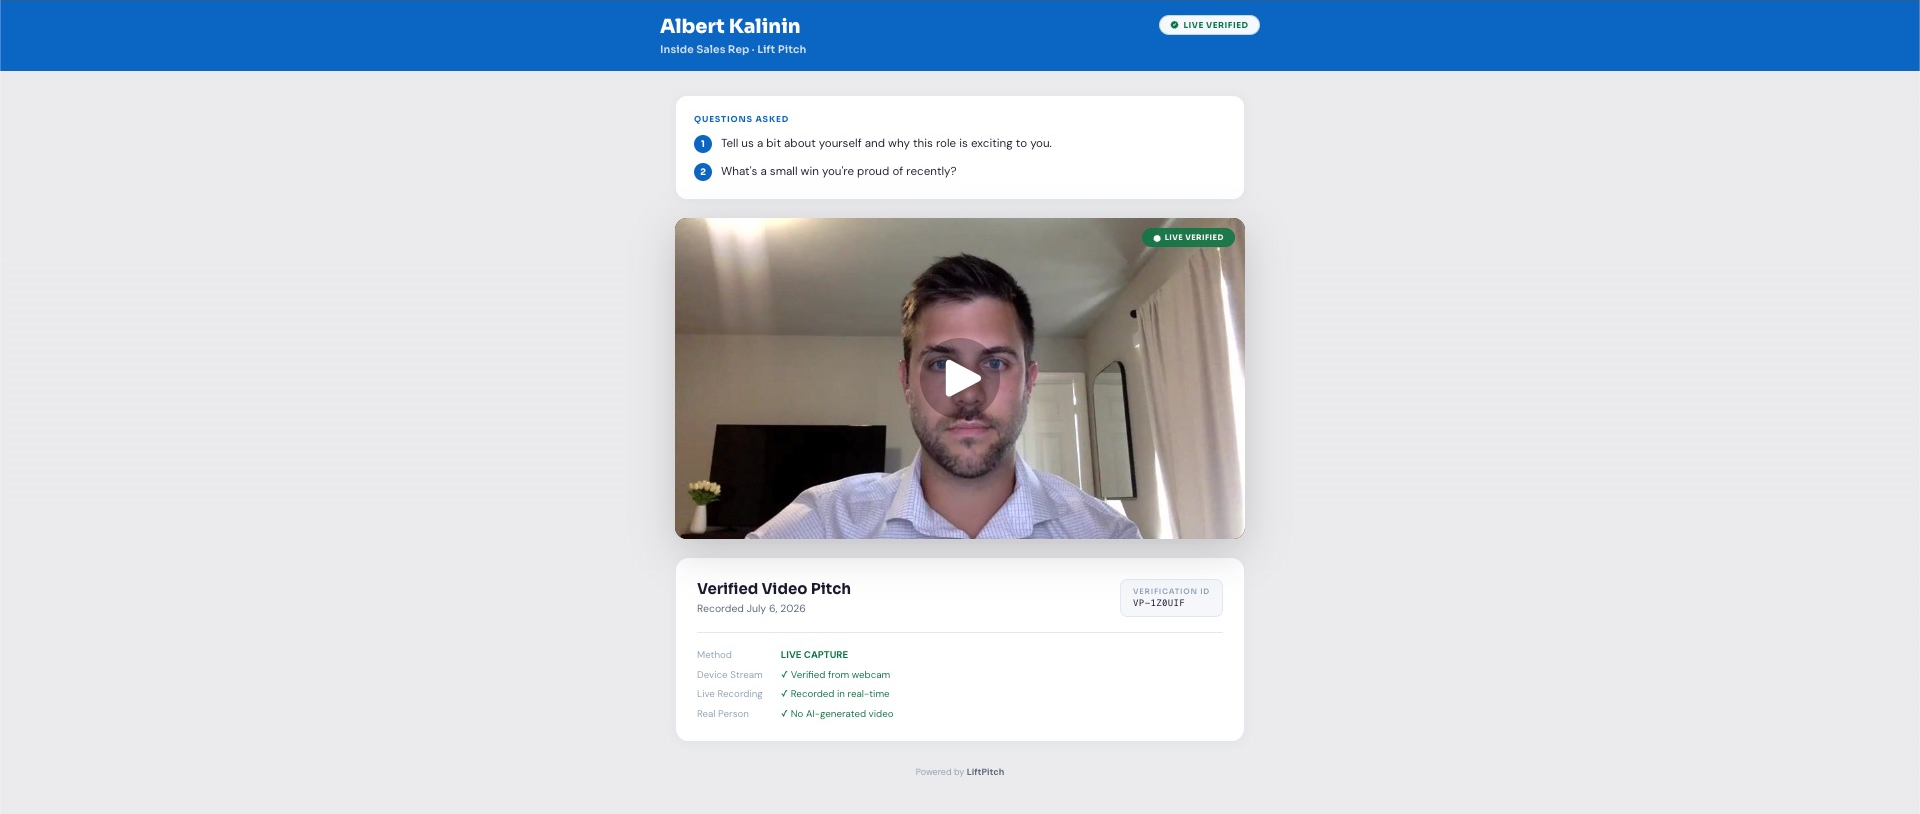
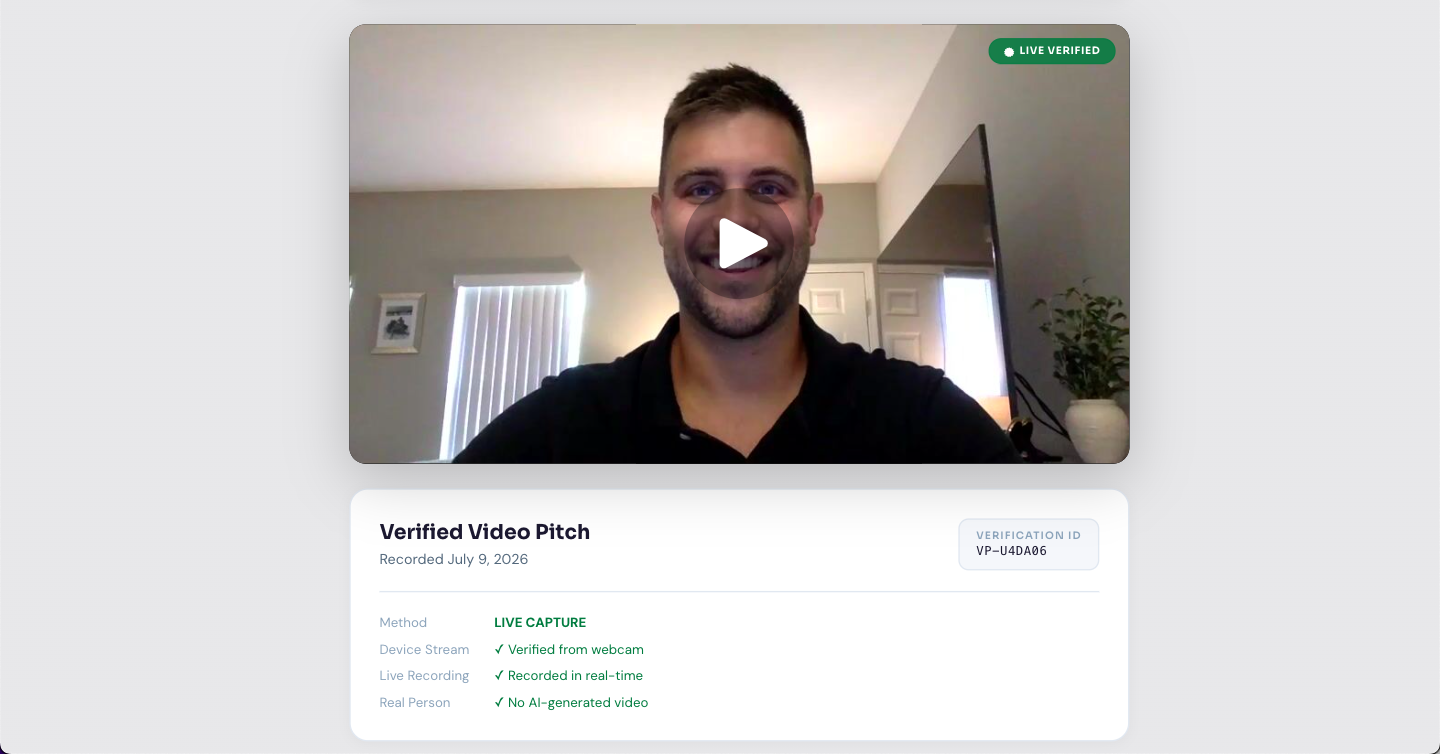
Homepage: swap in updated hero/how-it-works images; simplify hero CTA
- Replace hero-recruiter-intro (now 1440x754), howitworks-1-console,
  and howitworks-2-application with updated versions.
- Update HeroVisual fallback placeholder aspect ratio to 1440/754 so it
  matches the new, shorter/wider hero crop (loaded img already renders
  clean via width:100%/height:auto).
- Remove the secondary "See how it works" CTA and its scroll helper,
  leaving Start Free Pilot as the sole hero CTA.

diff --git a/src/app/LiftPitchApp.jsx b/src/app/LiftPitchApp.jsx
@@ -171,7 +171,7 @@ function HeroVisual() {
         />
       ) : (
         <div style={{
-          width: "100%", aspectRatio: "16 / 10",
+          width: "100%", aspectRatio: "1440 / 754",
           background: "linear-gradient(135deg, #EDF2F8 0%, #DCE6F2 100%)",
           display: "flex", alignItems: "center", justifyContent: "center",
         }}>
@@ -217,9 +217,6 @@ function StepImage({ src, alt }) {
 }
 
 function Landing({ onStart }) {
-  const scrollToHowItWorks = () =>
-    document.getElementById("how-it-works")?.scrollIntoView({ behavior: "smooth", block: "start" });
-
   return (
     <div style={{
       minHeight: "100vh",
@@ -269,17 +266,6 @@ function Landing({ onStart }) {
             >
               Start Free Pilot →
             </a>
-            <button onClick={scrollToHowItWorks} style={{
-              padding: "16px 28px", borderRadius: 14, cursor: "pointer",
-              background: B.surface, color: B.text, border: `1.5px solid ${B.border}`,
-              fontFamily: "'Sora', sans-serif", fontSize: 15, fontWeight: 600,
-              transition: "border-color 0.2s, color 0.2s",
-            }}
-              onMouseEnter={e => { e.currentTarget.style.borderColor = B.accent; e.currentTarget.style.color = B.accent; }}
-              onMouseLeave={e => { e.currentTarget.style.borderColor = B.border; e.currentTarget.style.color = B.text; }}
-            >
-              See how it works
-            </button>
           </div>
 
           {/* Trust chips */}
